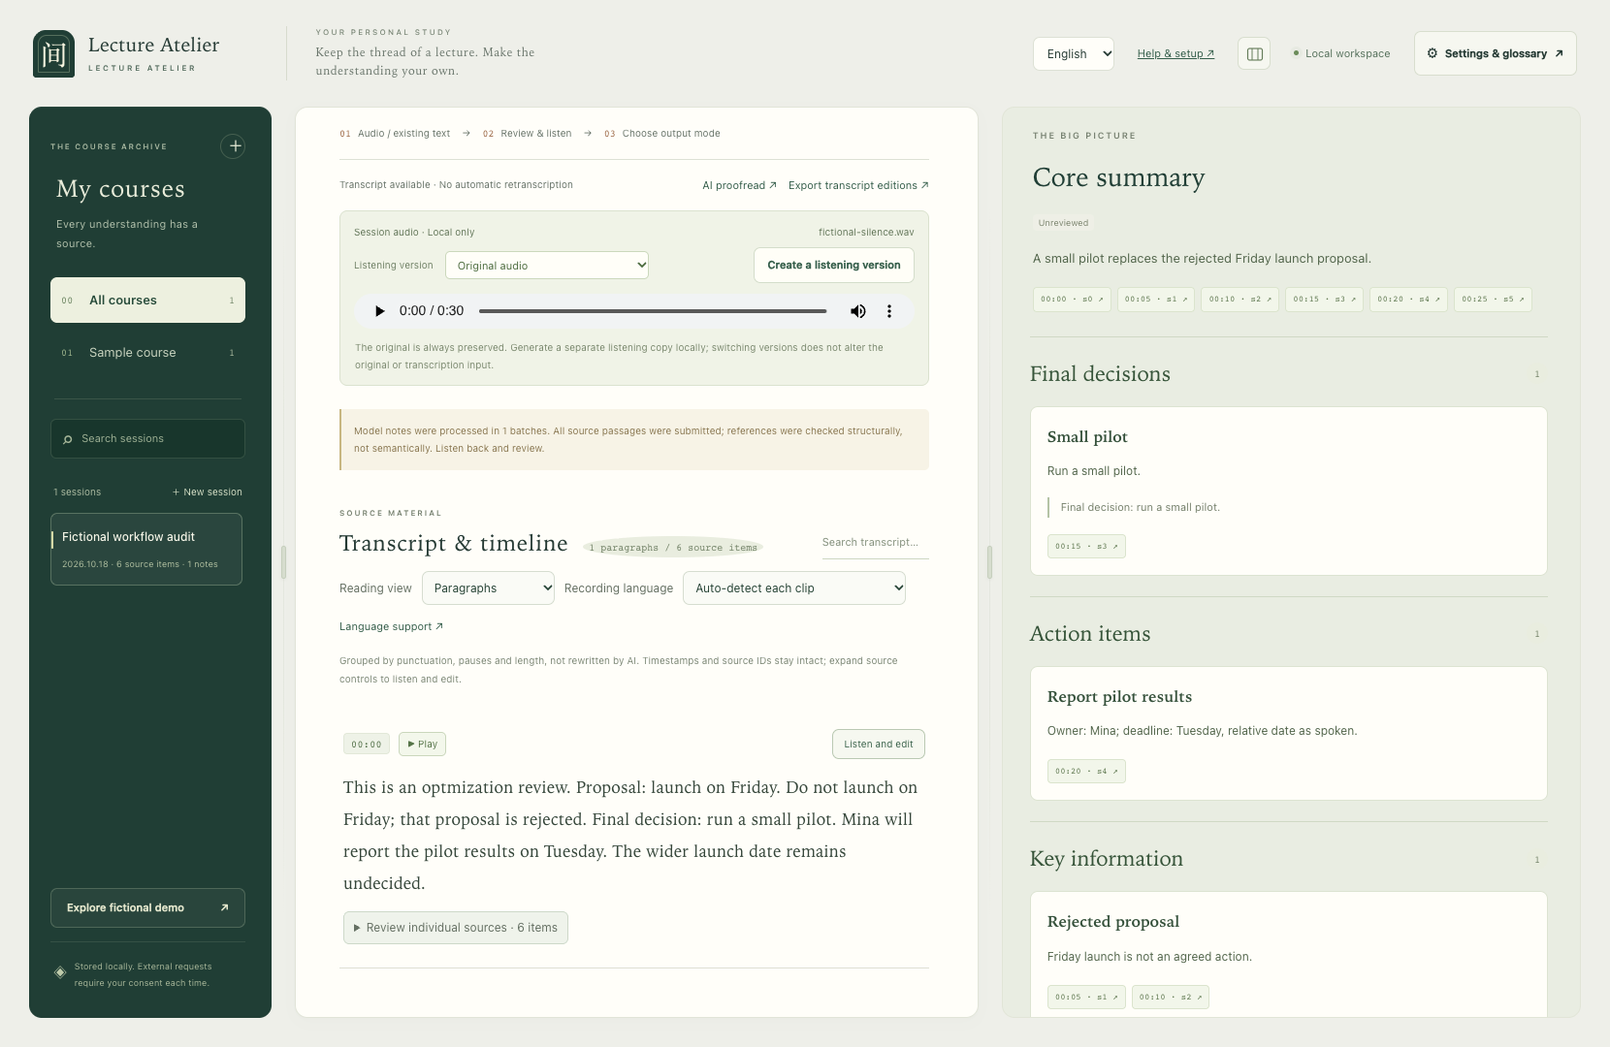
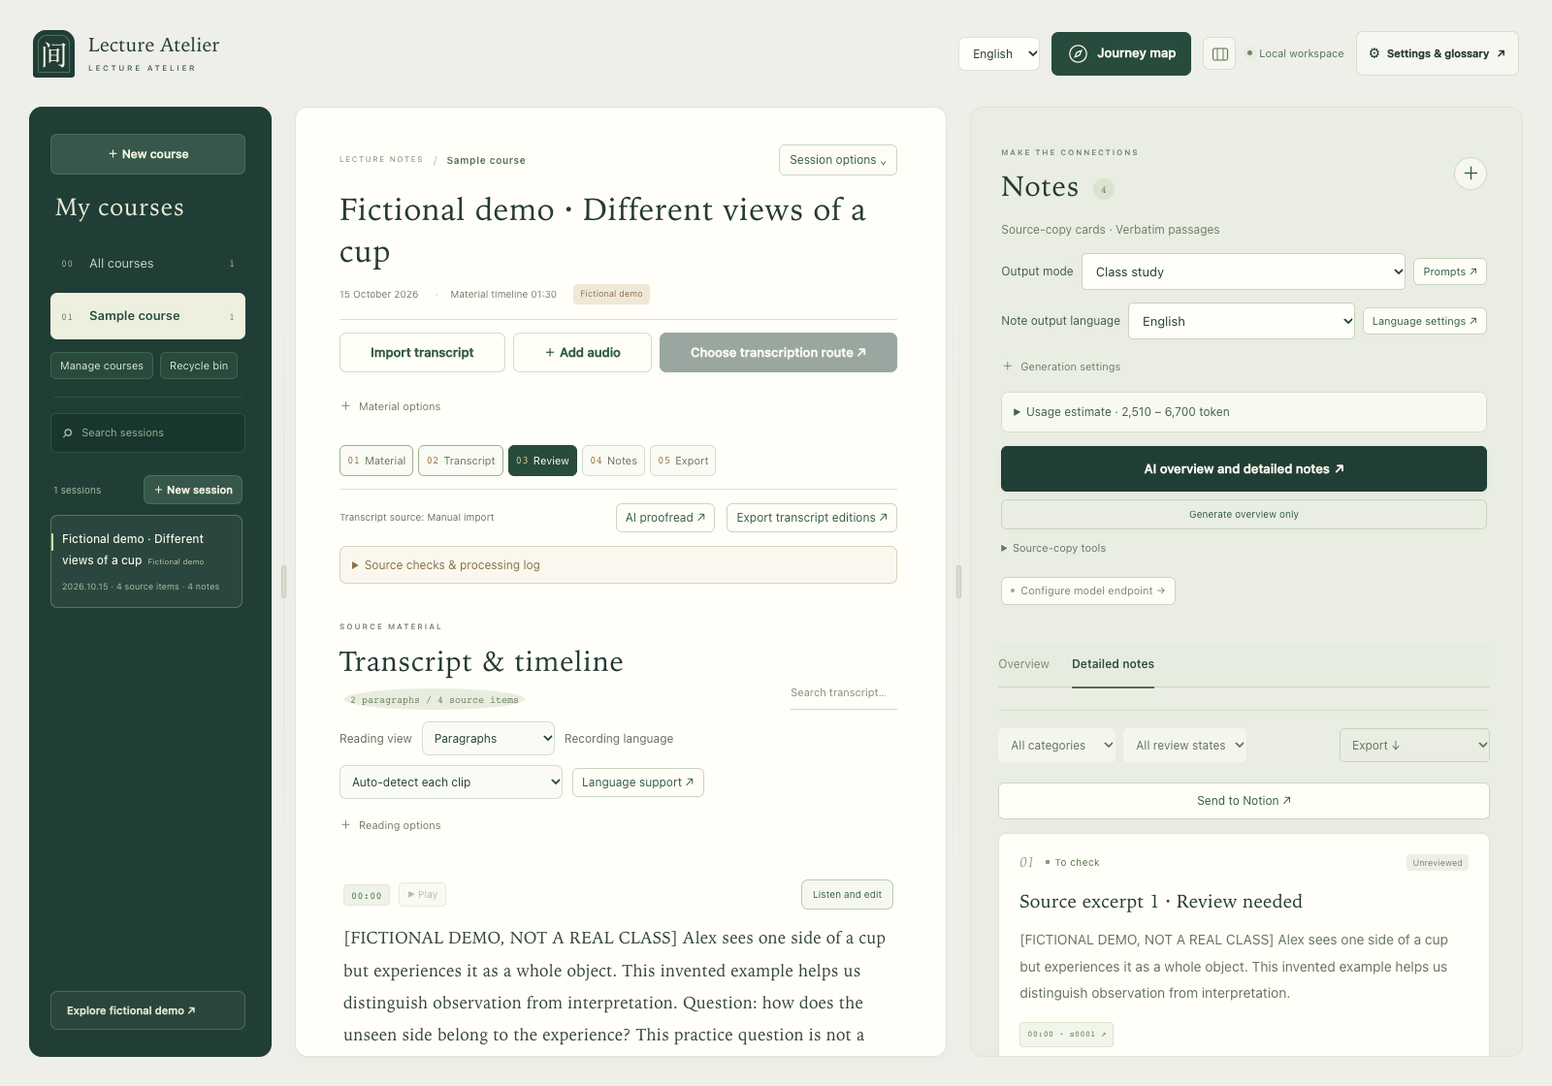
Refresh bilingual repository overview and clarify downloads and feedback

diff --git a/tests/test_source_release.py b/tests/test_source_release.py
@@ -88,7 +88,7 @@ class SourceReleaseTests(unittest.TestCase):
         }
         for name, phrases in required.items():
             text = (release.ROOT/name).read_text()
-            before_screenshot = text.split("![", 1)[0]
+            before_screenshot = text.split("docs/images/workspace.png", 1)[0]
             for phrase in phrases:
                 self.assertIn(phrase, before_screenshot, (name, phrase))
             for value in ("API", "model" if name == "README.md" else "模型 ID", "Notion", "speech", "SRT", "TXT"):
@@ -99,3 +99,20 @@ class SourceReleaseTests(unittest.TestCase):
             self.assertIn("https://help.aliyun.com/zh/tingwu/product-introduction/", text)
             for anchor in ("start", "workflow", "tingwu"):
                 self.assertIn('id="'+anchor+'"', text)
+
+    def test_readmes_expose_current_download_feedback_and_bilingual_previews(self):
+        version = (release.ROOT/"VERSION").read_text().strip()
+        for name in ("README.md", "README.zh-CN.md"):
+            text = (release.ROOT/name).read_text()
+            self.assertIn("/releases/download/v"+version+"/LectureAtelier-"+version+".zip", text)
+            self.assertIn("docs/images/workspace.png", text)
+            self.assertIn("docs/images/journey-map.png", text)
+            self.assertIn('id="feedback"', text)
+            self.assertEqual(text.count("<details>"), text.count("</details>"))
+            for form in ("bug.yml", "installation.yml", "feature.yml", "output-quality.yml"):
+                self.assertIn("template="+form, text)
+                self.assertIn(".github/ISSUE_TEMPLATE/"+form, release.SOURCE_FILES)
+        quality=(release.ROOT/".github/ISSUE_TEMPLATE/output-quality.yml").read_text()
+        self.assertIn("fictional", quality)
+        self.assertIn("private", quality)
+        self.assertIn("Checkpoint recovery", quality)

diff --git a/prepare_github.py b/prepare_github.py
@@ -10,10 +10,10 @@ from package_for_friends import FILES as APP_FILES, check_public_content
 
 ROOT = Path(__file__).resolve().parent
 PUBLIC_DOCS = ("README.md", "README.zh-CN.md", "PRIVACY.md", "SECURITY.md", "requirements-dev.txt", ".gitattributes",
-    "docs/ARCHITECTURE.md", "docs/VERIFICATION.md", "docs/EVALUATION.md", "docs/ROADMAP.md", "docs/PUBLISHING.md", "docs/TRY-IT.md", "docs/images/workspace.png",
+    "docs/ARCHITECTURE.md", "docs/VERIFICATION.md", "docs/EVALUATION.md", "docs/ROADMAP.md", "docs/PUBLISHING.md", "docs/TRY-IT.md", "docs/images/workspace.png", "docs/images/journey-map.png",
     "evaluate_transcripts.py",
     ".github/workflows/checks.yml", ".github/ISSUE_TEMPLATE/bug.yml", ".github/ISSUE_TEMPLATE/installation.yml",
-    ".github/ISSUE_TEMPLATE/feature.yml", ".github/ISSUE_TEMPLATE/config.yml",
+    ".github/ISSUE_TEMPLATE/feature.yml", ".github/ISSUE_TEMPLATE/config.yml", ".github/ISSUE_TEMPLATE/output-quality.yml",
     "examples/import_demo.srt", "examples/untimed_demo.txt")
 PUBLIC_TESTS = (
     "tests/test_acceptance.py", "tests/test_asr_guard.py", "tests/test_audio_processing.py", "tests/test_clean_workspace.py",

diff --git a/README.md b/README.md
@@ -1,18 +1,25 @@
 # Lecture Atelier · 听课之间
 
-Turn lecture, talk or meeting **recordings/transcripts into editable documents and source-linked notes**. Runs on your computer; use it through a browser.
+Turn lecture, talk or meeting **recordings into reviewable transcripts and source-linked notes**. A local workspace for listening, editing, organizing and exporting.
 
-[中文说明](README.zh-CN.md) · [Downloads](https://github.com/Acalephe0214/lecture-atelier/releases) · [Start here](#start) · [Full workflow](#workflow) · [Using Tingwu](#tingwu)
+[Download alpha.2](https://github.com/Acalephe0214/lecture-atelier/releases/tag/v0.1.0-alpha.2) · [中文说明](README.zh-CN.md) · [Start here](#start) · [Full workflow](#workflow) · [Using Tingwu](#tingwu) · [Feedback](#feedback)
+
+[![Software checks](https://github.com/Acalephe0214/lecture-atelier/actions/workflows/checks.yml/badge.svg?branch=codex%2Finitial-publication)](https://github.com/Acalephe0214/lecture-atelier/actions/workflows/checks.yml) · [MIT license](LICENSE) · **Alpha** · macOS / Windows x64 launchers
 
 ## What goes in? What comes out?
 
-- **Input:** an audio/video recording, or an existing TXT, SRT, VTT or supported JSON transcript. You can provide both the recording and its transcript.
-- **Output:** an editable transcript; optional AI correction suggestions, detailed notes and an executive overview; downloadable Word, PDF, Markdown, TXT, JSON or subtitle files, depending on what you export.
-- **What it does:** transcribe → listen and edit → review AI corrections → organize by lecture/discussion/meeting → check sources → export files or send notes to Notion. Each step can be used separately.
+- **Input:** audio/video, or a TXT, SRT, VTT or supported JSON transcript. Add both for timed playback.
+- **Output:** an editable transcript, optional AI revisions and notes, and files such as Word, PDF or Markdown; optional Notion pages.
+- **What it does:** get a transcript → listen and edit → organize with AI → check sources → export. Use local Whisper or import a transcript from Tingwu or another service.
 
-**An AI account is not required for basic use.** Importing, manual editing and non-PDF local exports need no API. Local recognition needs speech components; AI proofreading and notes need a configured model endpoint.
+**Try it with no API key:** start the app and choose **Explore fictional demo**. Read, edit, save and export before installing speech components or configuring a model.
 
 ## What do I need to provide?
+
+For **manual review**, bring a transcript. For **local recognition**, install `speech`. For **AI notes**, provide an API base URL, exact model ID and key.
+
+<details>
+<summary>Configuration checklist for each feature</summary>
 
 | What you want to do | Required input or configuration |
 | --- | --- |
@@ -22,17 +29,35 @@ Turn lecture, talk or meeting **recordings/transcripts into editable documents a
 | AI corrections, overview and notes | In **Settings & glossary → LLM**, enter your provider's **API base URL, exact model ID and API key**. A brand name or website password is not a model ID/key. |
 | Send notes to Notion (optional) | A **Notion connection token and parent page link/ID**; grant that connection access to the parent page in Notion. This is separate from the model API key. |
 
-**Just looking around?** Start the app and choose **Explore fictional demo** to read, edit and export without accounts, keys or your own recording. Running the app requires Python; see setup below.
+</details>
 
-The upper-right **Journey map** shows five clickable steps, the relevant controls and each step's output. **Manage courses**, **Session options → Remove session**, and **Remove audio** move selected records to the local **Recycle bin**, where they can be restored. Removing an audio link retains the transcript, notes and original file.
+<a id="preview"></a>
 
-![Fictional transcript and notes in Lecture Atelier](docs/images/workspace.png)
+## See the workspace
+
+[![Fictional transcript review and notes workspace](docs/images/workspace.png)](docs/images/workspace.png)
+
+*Current interface with fictional demo material. The example's source-copy cards are for exploring the workflow, not model-generated summaries.*
+
+- **Listen and revise:** timed source links, paragraph reading, manual edits and AI changes you can accept or reject.
+- **Organize by purpose:** class, talk, discussion and meeting modes; overview, detailed notes and traceable source references.
+- **Resume interrupted work:** saved AI batches, completed-note drafts and provider-reported tokens for new requests.
+- **Keep or take away:** local session storage, recoverable removal, document exports and optional one-way Notion delivery.
+
+<details>
+<summary>Explore the five-step Journey map</summary>
+
+![Five-step journey map inside Lecture Atelier](docs/images/journey-map.png)
+
+Open **Journey map** in the upper-right corner. Select a stop to see the relevant control and its output, then jump to that part of the app. Courses, sessions and audio links can be moved to the **Recycle bin** and restored; original media files remain on disk.
+
+</details>
 
 <a id="start"></a>
 
 ## First start
 
-1. Download **`LectureAtelier-<version>.zip`** from [Releases](https://github.com/Acalephe0214/lecture-atelier/releases) and extract the entire folder. This is the user package; a first trial does not need the developer source archive.
+1. Download **[LectureAtelier-0.1.0-alpha.2.zip](https://github.com/Acalephe0214/lecture-atelier/releases/download/v0.1.0-alpha.2/LectureAtelier-0.1.0-alpha.2.zip)** and extract the entire folder. Choose the user package, rather than GitHub's automatic source archives, for the guided setup.
 2. **Mac:** open `LectureAtelier.app` or `launch.command`. **Windows 10/11 x64:** open `launch-windows.bat`.
 3. Open <http://127.0.0.1:8767/>. Choose English or Chinese in the upper-right corner, then **Explore fictional demo**. Edit a sentence, save, refresh and export TXT. The demo is not a model-quality benchmark.
 
@@ -44,6 +69,9 @@ python3 app.py --open
 
 Windows CLI: `py -3 app.py --open`. If Python is missing, the launcher guides you through a confirmed project-local runtime download. **Basic mode downloads no Whisper model.** This is a source-based local app, not a signed native installer with all dependencies preinstalled.
 
+<details>
+<summary>Optional setup profiles and download sizes</summary>
+
 For optional components, open `setup-mac.command` on Mac or `setup-windows.bat` on Windows:
 
 | Setup option | Purpose |
@@ -54,6 +82,8 @@ For optional components, open `setup-mac.command` on Mac or `setup-windows.bat` 
 | `full` | Both local transcription and PDF. |
 
 Speech setup may need 0.5–1.5 GB downloads and 2–4 GB disk; existing speech settings are retained. Detailed setup: [English guide](FRIEND-GUIDE-EN.html) · [Chinese guide](FRIEND-GUIDE.html).
+
+</details>
 
 <a id="workflow"></a>
 
@@ -141,9 +171,27 @@ You can also use Tingwu independently, then create a session here, add the same 
 
 ### Ask a browser-capable assistant to help
 
+<details>
+<summary>Optional browser handoff instructions</summary>
+
 Choose **Copy for a browser assistant** in the handoff window and give it to a trusted assistant with actual browser and local-file-upload capabilities. Instructions include the recording path and return-session URL. A text-only chatbot cannot perform those browser actions.
 
 The app does not launch an assistant, sign in or upload automatically. You still handle verification and upload consent. Stop for confirmation if credits are insufficient or new charges appear; no automatic purchase. Instructions contain private paths: do not post them in public repositories or issues. After download, complete steps 6–7 above.
+
+</details>
+
+<a id="feedback"></a>
+
+## Help improve the app
+
+Choose the report that matches your experience:
+
+- [Installation help](https://github.com/Acalephe0214/lecture-atelier/issues/new?template=installation.yml) — launcher, runtime or optional-component setup.
+- [Report a bug](https://github.com/Acalephe0214/lecture-atelier/issues/new?template=bug.yml) — a reproducible UI or workflow failure.
+- [Report output quality](https://github.com/Acalephe0214/lecture-atelier/issues/new?template=output-quality.yml) — missing text, wrong citations, invented decisions or repeated costly failures.
+- [Suggest a feature](https://github.com/Acalephe0214/lecture-atelier/issues/new?template=feature.yml) — the task you want to complete and what gets in the way.
+
+Include the app version, platform and first failing step. Use a small fictional example and redact screenshots; keep recordings, real transcripts, keys and `.runtime/` private. For an independent first trial, follow the [short checklist](docs/TRY-IT.md).
 
 ## Data, limits and further reading
 
@@ -162,6 +210,7 @@ node tests/test_i18n.cjs
 node tests/test_paragraphs.cjs
 node tests/test_playback.cjs
 node tests/test_panels.cjs
+node tests/test_journey.cjs
 ```
 
 Tests use temporary synthetic workspaces; some media checks need FFmpeg. See [verification](docs/VERIFICATION.md) for optional test dependencies and evaluation limits.

diff --git a/README.zh-CN.md b/README.zh-CN.md
@@ -1,18 +1,25 @@
 # 听课之间 · Lecture Atelier
 
-把课程、讲座或会议的**录音／文字稿，变成可回听、可修改、可导出的文稿与笔记**。在自己的电脑上运行，通过浏览器使用。
+把课程、讲座或会议的**录音，变成可回听校对的文稿与带出处的笔记**。在自己的电脑上完成回听、修改、整理和导出。
 
-[English](README.md) · [下载](https://github.com/Acalephe0214/lecture-atelier/releases) · [开始使用](#start) · [完整流程](#workflow) · [通义听悟怎么用](#tingwu)
+[下载 alpha.2](https://github.com/Acalephe0214/lecture-atelier/releases/tag/v0.1.0-alpha.2) · [English](README.md) · [开始使用](#start) · [完整流程](#workflow) · [通义听悟怎么用](#tingwu) · [反馈](#feedback)
+
+[![软件检查](https://github.com/Acalephe0214/lecture-atelier/actions/workflows/checks.yml/badge.svg?branch=codex%2Finitial-publication)](https://github.com/Acalephe0214/lecture-atelier/actions/workflows/checks.yml) · [MIT 许可证](LICENSE) · **Alpha 测试版** · macOS / Windows x64 启动器
 
 ## 输入什么？输出什么？能做什么？
 
-- **输入：** 一份录音或视频，或者已有的 TXT、SRT、VTT、受支持的 JSON 转写稿。也可以同时提供录音和文字稿。
-- **输出：** 可编辑的转写稿；可选 AI 校对建议、详细笔记和总结总览；可下载的 Word、PDF、Markdown、TXT、JSON 或字幕文件，具体格式取决于导出内容。
-- **功能：** 音视频转文字 → 边听边改 → 审阅 AI 修改 → 按课程／讨论／会议整理 → 回查出处 → 导出文件或发送到 Notion。各步骤可以单独使用，不必全部开启。
+- **输入：** 音频／视频，或已有的 TXT、SRT、VTT、受支持的 JSON 转写稿。同时添加录音和带时间码的稿，可定位回听。
+- **输出：** 可编辑文稿、可选的 AI 修订与笔记，以及 Word、PDF、Markdown 等文件；也可导出 Notion 页面。
+- **功能：** 得到文字稿 → 边听边改 → AI 整理 → 回查出处 → 导出。可以用本地 Whisper，也可以导入听悟等服务生成的稿子。
 
-**不配置 AI 也能用。** 导入、手工修改和非 PDF 本地导出不需要 API。只有本地识别需要安装语音组件；AI 校对和总结需要配置模型接口。
+**先体验，再配置：** 启动后点「探索虚构示例」，无需 API key，就能试阅读、修改、保存和导出；需要转写或 AI 笔记时再安装组件、配置模型。
 
 ## 要填什么，才能使用？
+
+**手工校对**只需文字稿；**本地识别**需要安装 `speech`；**AI 笔记**需要 API 地址、准确的模型 ID 和密钥。
+
+<details>
+<summary>展开各项功能的配置清单</summary>
 
 | 想做的事 | 需要提供或配置什么 |
 | --- | --- |
@@ -22,17 +29,35 @@
 | AI 校对、生成总览和笔记 | 在「设置与术语表 → LLM」填写服务商提供的 **API 地址、准确的模型 ID、API key**。不是品牌名称或网页登录密码。 |
 | 发送笔记到 Notion（可选） | 填写 **Notion connection token、目标父页面链接／ID**，并在 Notion 授权该 connection 访问父页面。这与模型 API key 是两套配置。 |
 
-**想先看看效果？** 启动后点「探索虚构示例」，不需要准备账号、密钥或自己的录音，就能试阅读、修改和导出。运行应用需要 Python，安装方法见下方。
+</details>
 
-右上角「流程地图」可查看五个步骤、对应按钮和每步产物。左侧「管理课程」、中间「课次选项 → 移除课次」及「移除录音」会把选中记录移入本地「回收站」，可以恢复。移除录音关联时，文字稿、笔记及原文件保留。
+<a id="preview"></a>
 
-![虚构材料演示：原文与结构化笔记](docs/images/workspace.png)
+## 看看界面
+
+[![虚构材料演示：文稿校对与笔记工作台](docs/images/workspace.png)](docs/images/workspace.png)
+
+*新版界面使用虚构示例。截图里的原句卡片用于体验操作，并非模型生成的总结。*
+
+- **边听边改：** 时间码定位、段落阅读、手工编辑，以及可逐项接受／拒绝的 AI 修订。
+- **按用途整理：** 课程、讲座、讨论和会议模式，生成总览与详细笔记，并关联原文出处。
+- **中断后继续：** 成功批次保存断点，已完成笔记保留草稿，token 按本次新请求统计。
+- **保留或带走：** 本地保存、移除后可恢复、多种文档导出，以及可选的 Notion 单向导出。
+
+<details>
+<summary>看看五步流程地图</summary>
+
+![听课之间的五步流程地图](docs/images/journey-map.png)
+
+点右上角「流程地图」，选择一站，查看该点哪里、会得到什么，再跳转到对应操作。课程、课次和录音关联可移入「回收站」并恢复；原始音视频文件保留。
+
+</details>
 
 <a id="start"></a>
 
 ## 第一次启动
 
-1. 在 [Releases](https://github.com/Acalephe0214/lecture-atelier/releases) 下载 **`LectureAtelier-<版本号>.zip`** 并完整解压。这是使用包，首次使用不必选开发者源码包。
+1. 下载 **[LectureAtelier-0.1.0-alpha.2.zip](https://github.com/Acalephe0214/lecture-atelier/releases/download/v0.1.0-alpha.2/LectureAtelier-0.1.0-alpha.2.zip)** 并完整解压。首次使用选这个使用包，便于按引导安装；GitHub 自动生成的 Source code 是源码下载入口。
 2. **Mac：** 打开 `LectureAtelier.app` 或 `launch.command`。**Windows 10/11 x64：** 打开 `launch-windows.bat`。
 3. 浏览器打开 <http://127.0.0.1:8767/>。右上角可选中文或 English。点「探索虚构示例」，试着改一句原文、保存、刷新，再导出 TXT。示例不是模型质量评测。
 
@@ -44,6 +69,9 @@ python3 app.py --open
 
 Windows 命令行可用 `py -3 app.py --open`。缺少 Python 时，启动器会引导确认下载项目本地运行环境；**基础模式不下载 Whisper 模型**。这是源码式本地应用，不是已签名、所有依赖都预装好的原生安装包。
 
+<details>
+<summary>可选安装组件与下载量</summary>
+
 需要更多功能时，Mac 打开 `setup-mac.command`，Windows 打开 `setup-windows.bat`：
 
 | 安装选项 | 用途 |
@@ -54,6 +82,8 @@ Windows 命令行可用 `py -3 app.py --open`。缺少 Python 时，启动器会
 | `full` | 本地转写和 PDF。 |
 
 语音安装可能需下载约 0.5–1.5 GB、预留 2–4 GB 磁盘；已有语音配置会保留。详细安装说明：[中文手册](FRIEND-GUIDE.html) · [English guide](FRIEND-GUIDE-EN.html)。
+
+</details>
 
 <a id="workflow"></a>
 
@@ -141,9 +171,27 @@ Windows 命令行可用 `py -3 app.py --open`。缺少 Python 时，启动器会
 
 ### 让浏览器助手协助
 
+<details>
+<summary>可选的浏览器操作交接</summary>
+
 在交接窗口点「复制给浏览器 AI」，把说明交给**确实有浏览器和本地文件上传能力、且你信任的助手**。说明含录音路径和返回课次地址；没有相应能力的聊天模型不能代替你操作网页。
 
 App 不会自行启动助手、登录或上传。你仍需完成账号验证并确认外发；额度不足或出现新增费用时停下确认，不自动购买。说明含私人路径，不要贴到公开仓库或 Issue。下载完成后仍按上面第 6—7 步导回检查。
+
+</details>
+
+<a id="feedback"></a>
+
+## 一起改进这个工具
+
+按遇到的问题选择反馈入口：
+
+- [安装问题](https://github.com/Acalephe0214/lecture-atelier/issues/new?template=installation.yml)：启动器、运行环境或可选组件安装。
+- [功能报错](https://github.com/Acalephe0214/lecture-atelier/issues/new?template=bug.yml)：可以复现的界面或工作流问题。
+- [输出质量](https://github.com/Acalephe0214/lecture-atelier/issues/new?template=output-quality.yml)：转写遗漏、引用错误、虚构决策，或反复调用仍失败。
+- [功能建议](https://github.com/Acalephe0214/lecture-atelier/issues/new?template=feature.yml)：你要完成什么任务、目前卡在哪里。
+
+提供版本、系统和第一个出错步骤，用简短虚构例子复现，截图先脱敏。录音、真实转写、密钥和 `.runtime/` 留在本机。愿意独立试用的朋友，可以按[首次试用清单](docs/TRY-IT.md)记录过程。
 
 ## 数据、限制和更多说明
 

diff --git a/docs/VERIFICATION.md b/docs/VERIFICATION.md
@@ -10,6 +10,11 @@ Some integration checks run a loopback simulated SSE model. They exercise the ap
 
 Local development has also included an English synthetic-speech smoke test with an existing Whisper model and a checkpoint rerun. That demonstrates one setup path, not multilingual accuracy. Browser checks performed during development do not establish Windows compatibility. Clean end-user Windows setup, broad language combinations, noise-reduction quality and summary quality remain unvalidated.
 
+## Recorded validation — 2026-10-22
+
+- [Alpha.2 application CI at 96f90c3](https://github.com/Acalephe0214/lecture-atelier/actions/runs/39255234899): Linux, macOS and Windows jobs passed. These are software and hosted-runner setup checks, not independent end-user installation trials.
+- Repository presentation and release checks: 350 local Python tests and 233 buildless JavaScript assertions/checks passed. Updated public screenshots use a fresh fictional demo workspace with no model calls. English and Chinese READMEs were rendered with GitHub's Markdown API and inspected at desktop and mobile widths, including expandable configuration and map sections.
+
 ## Recorded validation — 2026-10-19
 
 - Alpha.2 local software regression: 349 Python tests and 233 buildless JavaScript assertions/checks passed using synthetic fixtures/mocked services. Recovery tests include a failed third detail batch, a failed final overview merge, restart reuse, invalid/corrupted citations, usage accounting and protection of manual edits.

diff --git a/CHANGELOG.md b/CHANGELOG.md
@@ -8,6 +8,7 @@
 - Add a bilingual five-step journey map and clearer primary actions; fold supporting controls and explanations.
 - Add confirmed course/session/audio removal, a recoverable local recycle bin and active-job/conflict guards. Original media files remain on disk.
 - Add synthetic recovery, removal and bilingual interface regressions; retain documented real-world validation limits.
+- Refresh English/Chinese repository previews and setup navigation; add an output-quality feedback form and version-specific user-package links.
 
 ## 0.1.0-alpha.1 — 2026-10-19
 
